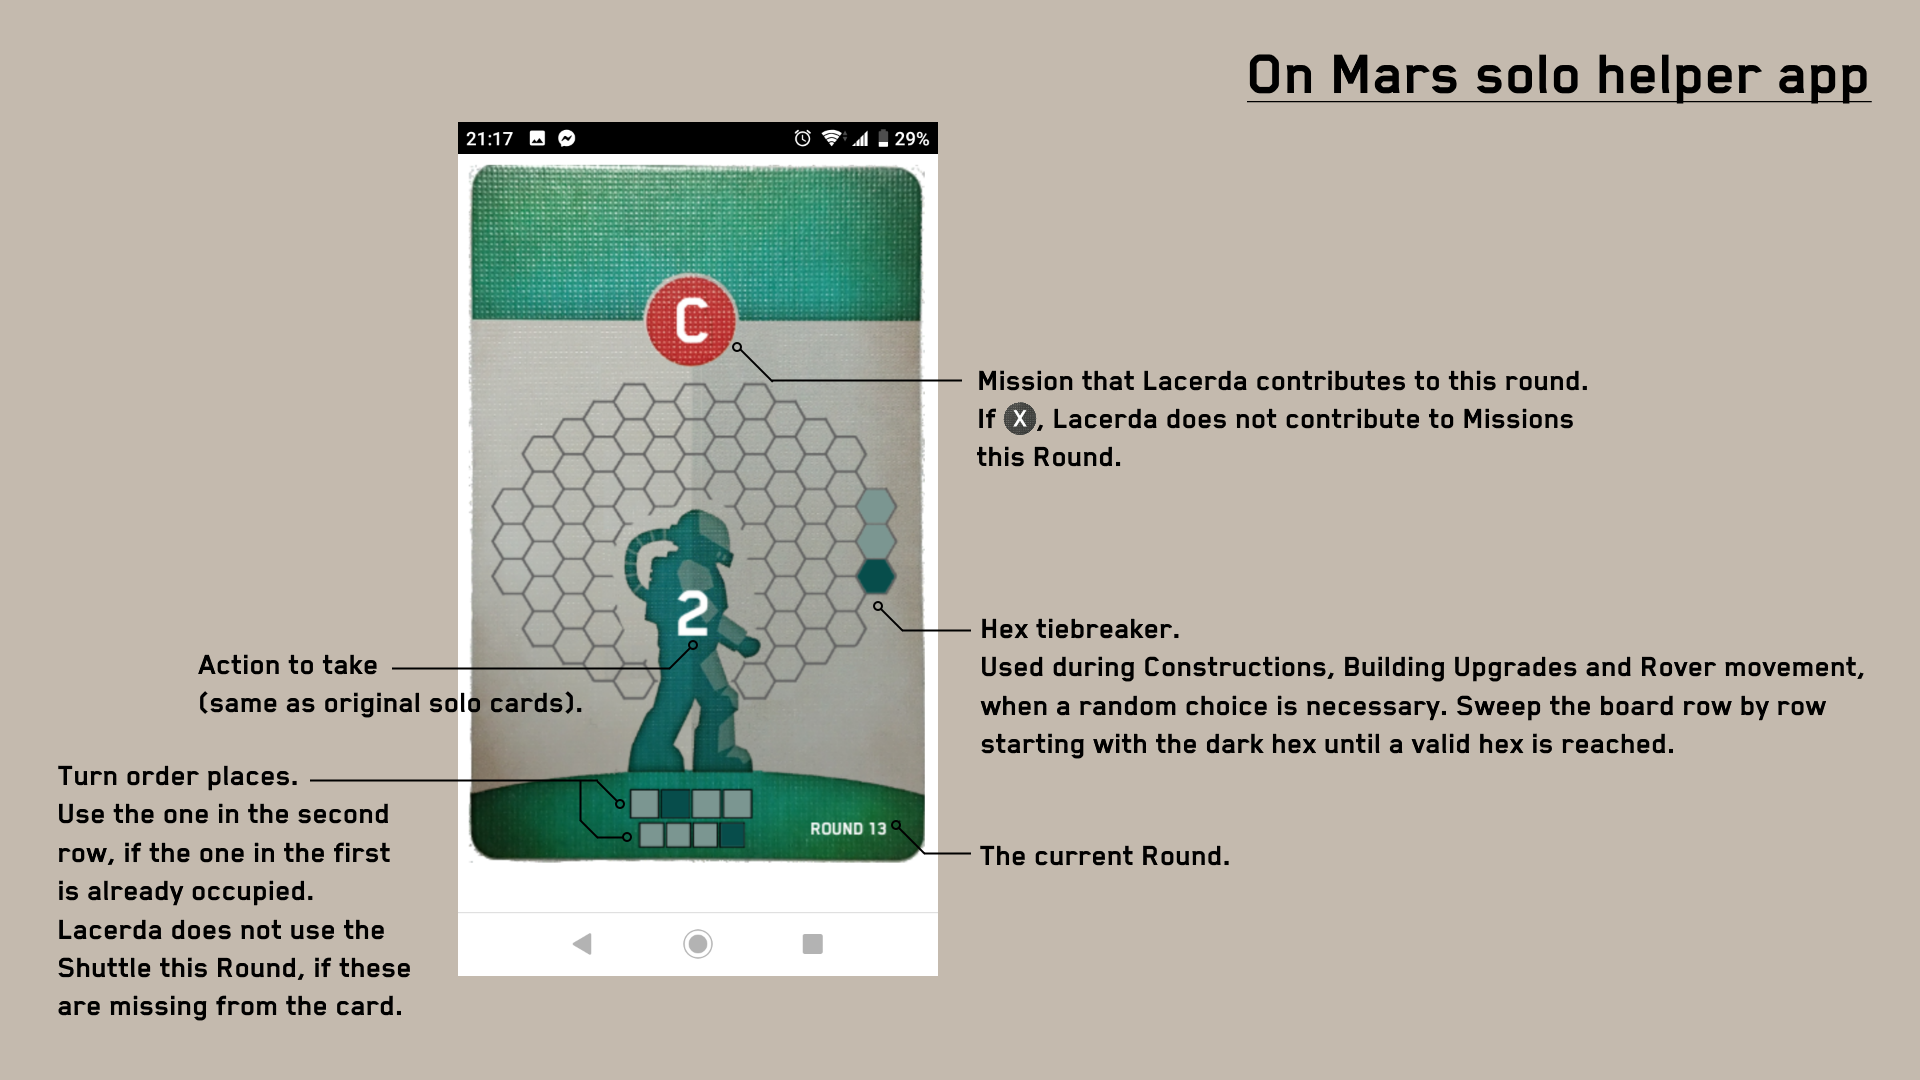
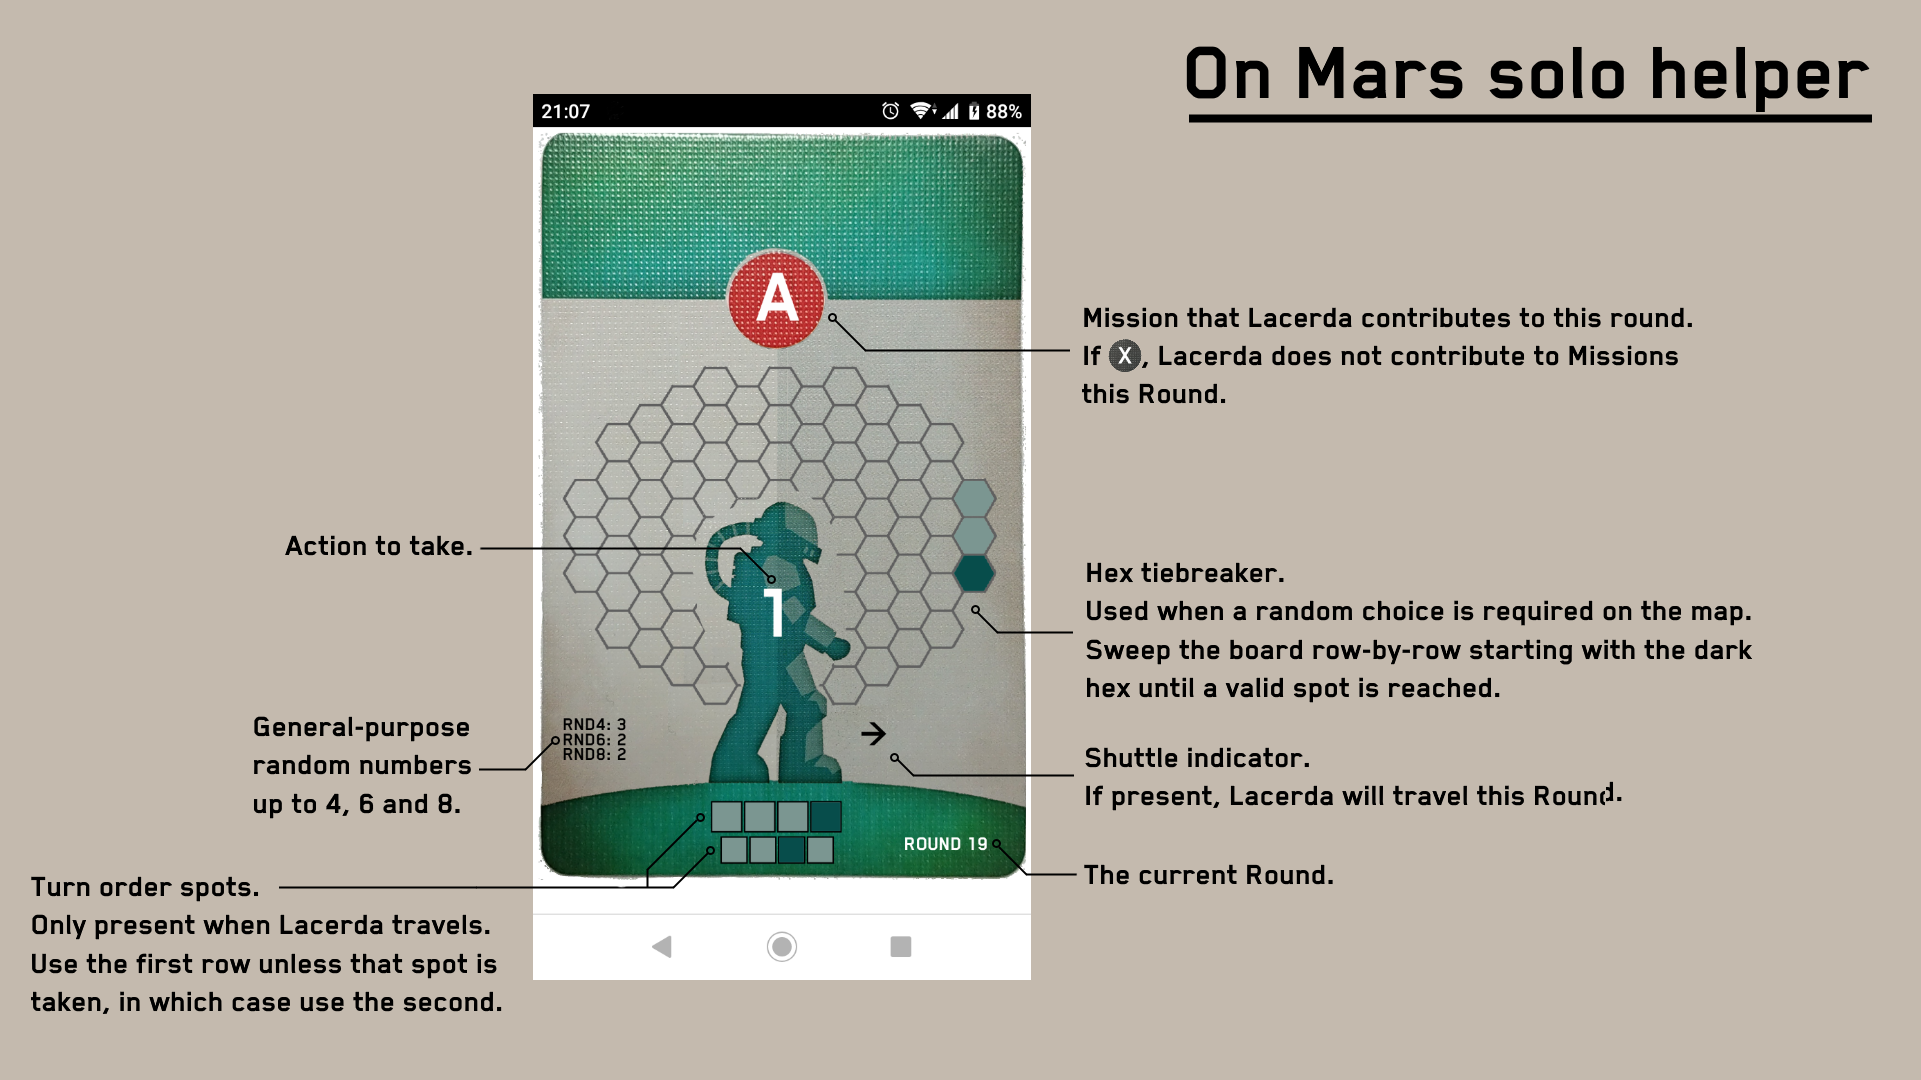
Update README with new/fixed features

Changed region(s): [[0.0, 0.0611, 0.9688, 0.9472], [0.5938, 0.0306, 0.9688, 0.1222]]

diff --git a/README.md b/README.md
@@ -1,4 +1,6 @@
-# wwwacerda
+# On Mars solo helper app
+
+## Intro
 
 The solo variant of the boardgame On Mars (designed by Vital Lacerda, published
 by Eagle-Gryphon Games) requires the human player to make certain decisions on
@@ -21,22 +23,48 @@ The solo deck contains the following twelve cards:
  - action 3, mission C, travel
 
 The application uses the same cards, but presents the information a bit
-differently, and also gives the following random choices:
+differently, and also helps choosing random actions.
 
-**Hex tiebreaker**: This one is to be used during Constructions, Building
+## Random actions
+
+### Hex tiebreaker
+
+This one is to be used during Constructions, Building
 Upgrades and Rover movement, when a random choice is necessary. The method is
 "stolen" from Tapestry's Automaa, i.e. the application gives a starting row and
 a starting tile, and the player have to sweep the board row by row until a valid
 hex for the specific action is reached. 
 
-**Turn order place**: This one gives the player a primary and a secondary turn
-order place if Lacerda travels this round. The secondary is to be used in case
-the primary is already occupied by the human player. The lack of these markers
-on the card indicates that Lacerda does not use the Shuttle this round.
+### Turn order place
+
+This one gives the player a primary and a secondary turn
+order place. Only available if Lacerda travels this Round (the Shuttle indicator
+is present on the card), and the user clicked the card (in order to hide
+Lacerda's choice at the beginning of the Round). 
+
+### General purpose random numbers
+
+There are other situations in the game when
+a random choice is required (e.g. Lacerda takes a scientist, but neither of you
+have any Advanced Buildings). The application provides three random numbers per
+turn in three different ranges: 1-4, 1-6 and 1-8. This feature might change in
+the future depending on how useful it is (e.g. it might be possible in the
+future to generate new ones within a Round).
 
 The following image explains how these information are presented:
 
 ![manual](manual.png)
+
+## Usage
+
+Load the [application](https://sghctoma.github.io/wwwacerda) in a web browser,
+and start clicking :) The application only "replaces" the solo cards, i.e. it
+won't give you an initial Turn Order spot for Lacerda - you still have to do it
+as written in the rulebook. Your first click reveals Lacerda's first action. If
+Lacerda uses the Shuttle this Round, the next click reveals the Turn Order spot
+he chooses, and the next action is revealed only after another click. If he
+does not use the Shuttle in a Round, the click immediately reveals the next
+action.
 
 <hr />
 
